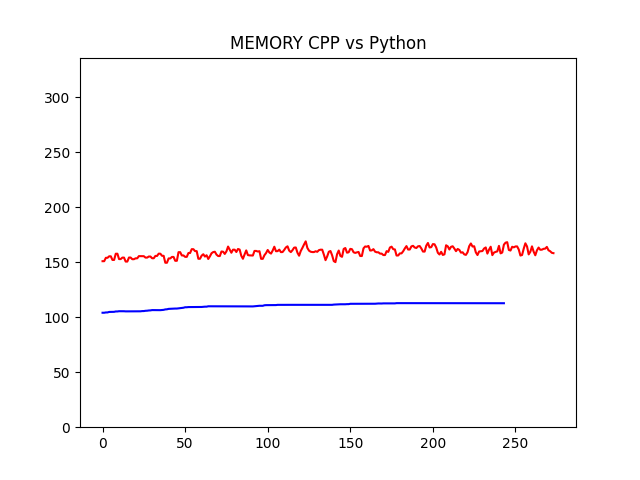
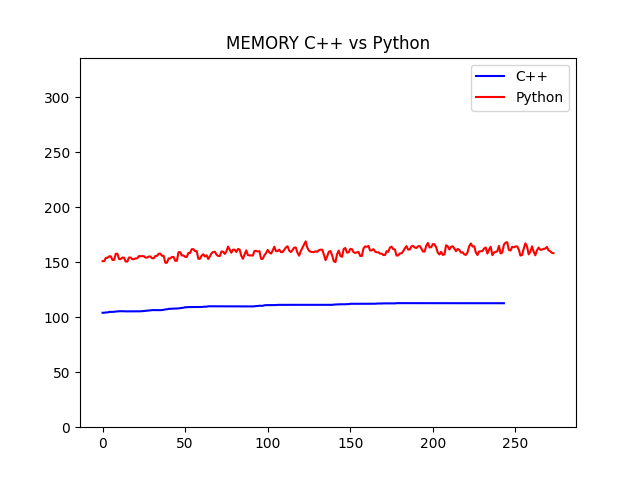
Cleanup

Changed region(s): [[0.3438, 0.0625, 0.6875, 0.125], [0.75, 0.125, 0.9062, 0.2188]]

diff --git a/dataToPlot.py b/dataToPlot.py
@@ -2,7 +2,6 @@ import matplotlib.pyplot as plt
 import numpy as np
 
 def get_data(file):
-    # data = []
     cpu = []
     mem = []
 
@@ -14,7 +13,6 @@ def get_data(file):
     for line in data_lines:
         spl = line.split("  ")
 
-        # data.append({"CPU" : float(spl[2][:-1]), "MiB" : float(spl[3].split("/")[0][1:-4])})
         cpu.append(float(spl[2][:-1]))
         mem.append(float(spl[3].split("/")[0][1:-4]))
 
@@ -56,62 +54,83 @@ for data in pymem_zip:
 
 plt.figure(1)
 plt.subplot(2,1,1)
-plt.title("CPU % CPP")
-plt.plot(ccpu1, 'b', ccpu2, 'r', ccpu3,'g', ccpu4, 'y', ccpu5)
+plt.title("CPU % C++")
+plt.plot(ccpu1, 'b', label='1')
+plt.plot(ccpu2, 'r', label='2')
+plt.plot(ccpu3, 'g', label='3')
+plt.plot(ccpu4, 'y', label='4')
+plt.plot(ccpu5, 'm', label='5')
+plt.legend()
 curr_ylim = plt.ylim()
 plt.subplot(2,1,2)
 plt.ylim(curr_ylim)
-plt.title("Average")
-plt.plot(ccpu)
+plt.plot(ccpu, label='Average')
+plt.legend()
 plt.savefig(f"./img/CPUcpp.png")
 
 plt.figure(2)
 plt.subplot(2,1,1)
-plt.plot(cmem1, 'b', cmem2, 'r', cmem3, 'g', cmem4, 'y', cmem5)
-plt.title("MEMORY CPP")
+plt.plot(cmem1, 'b', label='1')
+plt.plot(cmem2, 'r', label='2')
+plt.plot(cmem3, 'g', label='3')
+plt.plot(cmem4, 'y', label='4')
+plt.plot(cmem5, 'm', label='5')
+plt.legend()
+plt.title("MEMORY C++")
 curr_ylim = plt.ylim()
 plt.subplot(2,1,2)
 plt.ylim(curr_ylim)
-plt.title("Average")
-plt.plot(cmem)
+plt.plot(cmem, label='Average')
+plt.legend()
 plt.savefig(f"./img/MEMcpp.png")
 plt.show()
 
 plt.figure(3)
 plt.subplot(2,1,1)
 plt.title("CPU % Python")
-plt.plot(pycpu1, 'b', pycpu2, 'r', pycpu3, 'g', pycpu4, 'y',pycpu5)
+plt.plot(pycpu1, 'b', label='1')
+plt.plot(pycpu2, 'r', label='2')
+plt.plot(pycpu3, 'g', label='3')
+plt.plot(pycpu4, 'y', label='4')
+plt.plot(pycpu5, 'm', label='5')
+plt.legend()
 curr_ylim = plt.ylim()
 plt.subplot(2,1,2)
 plt.ylim(curr_ylim)
-plt.title("Average")
-plt.plot(pycpu)
+plt.plot(pycpu, 'c', label='Average')
+plt.legend()
 plt.savefig(f"./img/CPUpython.png")
 
 plt.figure(4)
 plt.subplot(2,1,1)
-plt.plot(pymem1, 'b', pymem2, 'r', pymem3, 'g', pymem4, 'y', pymem5)
+plt.plot(pymem1, 'b', label='1')
+plt.plot(pymem2, 'r', label='2')
+plt.plot(pymem3, 'g', label='3')
+plt.plot(pymem4, 'y', label='4')
+plt.plot(pymem5, 'm', label='5')
+plt.legend()
 plt.title("MEMORY Python")
 curr_ylim = plt.ylim()
 plt.subplot(2,1,2)
 plt.ylim(curr_ylim)
-plt.title("Average")
-plt.plot(pymem)
+plt.plot(pymem, 'c', label='Average')
+plt.legend()
 plt.savefig(f"./img/MEMpython.png")
 plt.show()
 
 plt.figure(5)
-plt.title("CPU % CPP vs Python")
+plt.title("CPU % C++ vs Python")
 plt.ylim(ymin=0,ymax=int(max(ccpu))*2)
-plt.plot(ccpu, 'b', label="Cpp")
+plt.plot(ccpu, 'b', label="C++")
 plt.plot(pycpu, 'r',label="Python")
 plt.legend()
 plt.savefig(f"./img/CPUcompare.png")
 
 plt.figure(6)
-plt.plot(cmem, 'b', label="Cpp")
+plt.plot(cmem, 'b', label="C++")
 plt.plot(pymem, 'r', label="Python")
+plt.legend()
 plt.ylim(ymin=0,ymax=int(max(pymem))*2)
-plt.title("MEMORY CPP vs Python")
+plt.title("MEMORY C++ vs Python")
 plt.savefig(f"./img/MEMcompare.png")
 plt.show()

diff --git a/cpp/main.cpp b/cpp/main.cpp
@@ -40,7 +40,6 @@ int main(int, char**){
 
     double output_height = 640;
     double output_width = 480;
-    // VideoWriter video("result.avi",CV_FOURCC('X','V','I','D'),cap.get(CAP_PROP_FPS) , Size(frame_width,frame_height));
 
     for (;;)
     {
